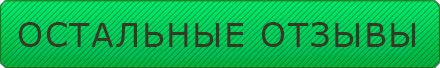
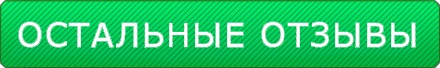
Добавлен фильтр для обработки referal-ссылок, добавлено подключение основных фильтров приложения при запуске, заменена кнопка в коммерческом.

Changed region(s): [[0.0295, 0.2941, 0.5614, 0.7059], [0.5909, 0.2941, 0.9455, 0.7059]]

diff --git a/protected/filters/ECReferalFilter.php b/protected/filters/ECReferalFilter.php
@@ -1,0 +1,60 @@
+<?php
+
+/**
+ * Фильтр для обработки referal-ссылок при переходе на сайт
+ */
+class ECReferalFilter extends CFilter
+{
+    /**
+     * Performs the pre-action filtering.
+     * @see CFilter::preFilter()
+     *
+     * @param CFilterChain $filterChain the filter chain that the filter is on.
+     *
+     * @return boolean
+     */
+    protected function preFilter($filterChain)
+    {
+        // обрабатываем все виды referal-ссылок:
+        
+        // коммерческое предложение
+        $this->processOffer();
+        // @todo приглашение на съемку
+        // @todo приглашение на отбор актеров
+        
+        return true;
+    }
+
+    /**
+     * Performs the post-action filtering.
+     *
+     * @param CFilterChain $filterChain the filter chain that the filter is on.
+     *
+     * @return void
+     */
+    protected function postFilter($filterChain)
+    {
+        // logic being applied after the action is executed
+    }
+    
+    /**
+     * Пометить отправленное коммерческое предложение как использованное и запомнить данные заказчика в сессию
+     * для подстановки в форму
+     * 
+     * @return void
+     */
+    protected function processOffer()
+    {
+        $key = Yii::app()->request->getParam('key');
+        $id  = Yii::app()->request->getParam('offerId');
+        
+        if ( ! $id OR ! $key OR ! $offer = CustomerOffer::model()->findByPk($id) )
+        {// это не реферальная ссылка коммерческого предложения
+            return;
+        }
+        // помечаем приглашение использованным
+        $offer->markUsed();
+        // запоминаем приглашение в сессию, для того чтобы использовать контакты заказчика во всех формах
+        Yii::app()->session->add('activeOffer', $offer);
+    }
+}

diff --git a/protected/config/main.php b/protected/config/main.php
@@ -29,13 +29,13 @@ return array(
     // Название проекта 
     'name'    => 'easyCast',
     // Короткие имена для вызова популярных библиотек
-    /*'aliases' => array(
-        
-    ),*/
+    //'aliases' => array(),
     
 	// autoloading model and component classes
     'import' => array(
+        // основные компоненты приложения
 		'application.models.*',
+		'application.filters.*',
 		'application.components.*',
 	    'application.extensions.*',
         // Выбор страны и города
@@ -52,8 +52,6 @@ return array(
 	    'application.modules.questionary.models.*',
         // Модуль загрузки изображений
         'ext.galleryManager.models.*',
-        // Image manipulation library
-        //'ext.YiiImage.CImageComponent',
         // Виджеты Twitter Bootstrap
         'application.extensions.bootstrap.widgets.*',
         // старый виджет выбора "да/нет"
